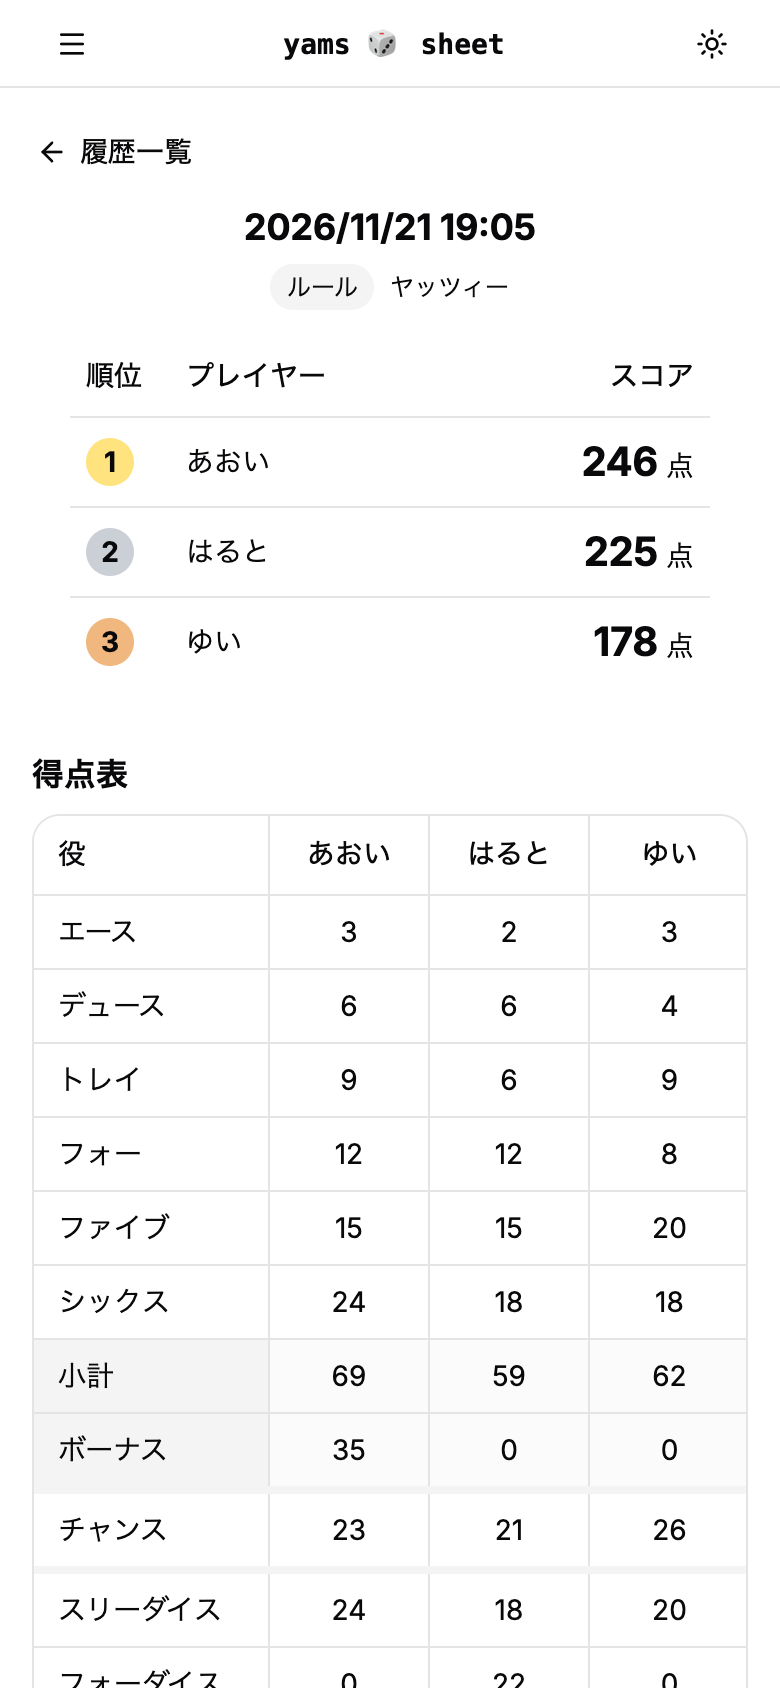
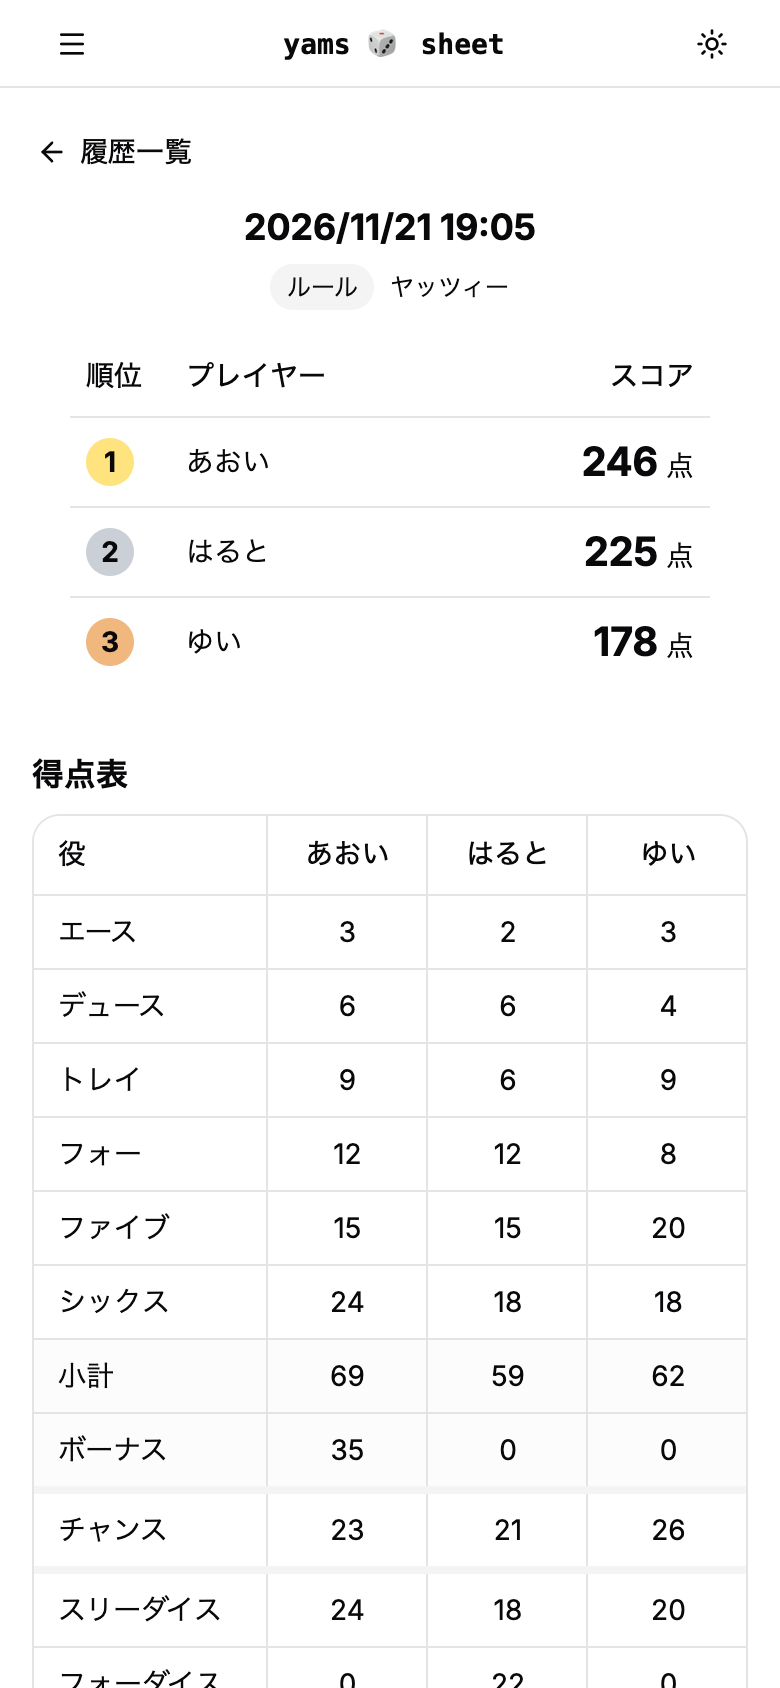
履歴・結果発表のレビュー指摘に対応する
削除機能を入れたことで、削除済みの履歴に戻るボタンやブックマークから
普通に到達するようになったが、root の英語のエラー画面になっていた。
一覧へ redirect して、利用者が迷わないようにする。

ほかに、使っていて引っかかる点を直す。
- 履歴一覧から他の画面へ戻る手段がブラウザバックしかなかった
- 空状態の「ゲームをはじめる」が設定画面に固定で、プレー中だと進行中のゲームと食い違う
- 得点表の自動計算行が、ダークモードやホバー時に固定列だけ色がずれていた
- 横スクロールで固定列の区切り線が消え、長い名前で列が際限なく広がっていた
- 同点1位のとき一覧カードで1人しか1位として表示されなかった
- 新しい画面にページタイトルがなく、役名が行見出しとして読み上げられなかった

README は、ゲーム中の左上のボタンとメニューを取り違えやすい記述と、
入力中は保存しているのに「保存しません」と読める記述を直した。

diff --git a/app/features/results/components/score-table.tsx b/app/features/results/components/score-table.tsx
@@ -126,6 +126,20 @@ function buildYamsGroups(columns: Column<ScoresYams>[]): Group[] {
 
 type Props = Pick<PreviousSheet, "players" | "rule" | "scores">;
 
+// 固定列の右の区切り線を border-l（隣のセル側）で引くと、横スクロールで固定列の下に隠れて消えるため、固定列自身に影で描く
+const stickyCell =
+  "sticky left-0 z-10 shadow-[inset_-1px_0_0_var(--color-border)]";
+
+// bg-muted/30 は半透明で、固定列に使うと横スクロール時に下のセルが透ける。固定列だけ bg-muted にすると行の他のセルと色がずれるため、背景色と混ぜた不透明色を行と固定列の両方に使う
+const autoRowBg =
+  "bg-[color-mix(in_oklab,var(--color-muted)_30%,var(--color-background))]";
+
+// TableRow 既定の hover 色に任せると、行だけ色が変わって固定列と食い違うため、hover でも同じ色に固定する
+const rowBgClass = {
+  default: "bg-background hover:bg-background",
+  auto: `${autoRowBg} hover:bg-[color-mix(in_oklab,var(--color-muted)_30%,var(--color-background))]`,
+} as const;
+
 export function ScoreTable({ players, rule, scores }: Props) {
   // 役ごとに枠を分けると横スクロールが枠ごとにずれるため、1つの表にまとめてグループ境界を太線で表す
   const columns =
@@ -142,53 +156,65 @@ export function ScoreTable({ players, rule, scores }: Props) {
       <Table>
         <TableHeader>
           <TableRow className="hover:bg-transparent">
-            <TableHead className="sticky left-0 z-10 bg-background min-w-28 px-3">
+            <TableHead
+              scope="col"
+              className={cn(stickyCell, "bg-background min-w-28 px-3")}
+            >
               役
             </TableHead>
-            {columns.map(({ player }) => (
+            {columns.map(({ player }, i) => (
               <TableHead
                 key={player.id}
-                className="border-l text-center min-w-20"
+                scope="col"
+                title={player.name}
+                className={cn("text-center min-w-20", i > 0 && "border-l")}
               >
-                {player.name}
+                <span className="block max-w-24 mx-auto truncate">
+                  {player.name}
+                </span>
               </TableHead>
             ))}
           </TableRow>
         </TableHeader>
         <TableBody>
           {groups.flatMap((group, groupIdx) =>
-            group.map((row, rowIdx) => (
-              <TableRow
-                key={row.label}
-                className={cn(
-                  "h-9 hover:bg-transparent",
-                  groupIdx > 0 && rowIdx === 0 && "border-t-4 border-t-muted",
-                  row.variant !== "default" && "bg-muted/30",
-                )}
-              >
-                <TableCell
+            group.map((row, rowIdx) => {
+              const isAuto = row.variant !== "default";
+              return (
+                <TableRow
+                  key={row.label}
                   className={cn(
-                    "sticky left-0 z-10 px-3",
-                    // 半透明の bg-muted/30 だと横スクロール時に下のセルが透けるため、固定列は不透明色にする
-                    row.variant === "default" ? "bg-background" : "bg-muted",
-                    row.variant === "total" && "font-bold",
+                    "h-9",
+                    groupIdx > 0 && rowIdx === 0 && "border-t-4 border-t-muted",
+                    isAuto ? rowBgClass.auto : rowBgClass.default,
                   )}
                 >
-                  {row.label}
-                </TableCell>
-                {row.values.map((value, i) => (
-                  <TableCell
-                    key={columns[i].player.id}
+                  <TableHead
+                    scope="row"
                     className={cn(
-                      "border-l text-center",
-                      row.variant === "total" && "font-bold text-base",
+                      stickyCell,
+                      isAuto ? autoRowBg : "bg-background",
+                      "h-auto px-3",
+                      row.variant === "total" ? "font-bold" : "font-normal",
                     )}
                   >
-                    {value ?? "-"}
-                  </TableCell>
-                ))}
-              </TableRow>
-            )),
+                    {row.label}
+                  </TableHead>
+                  {row.values.map((value, i) => (
+                    <TableCell
+                      key={columns[i].player.id}
+                      className={cn(
+                        "text-center",
+                        i > 0 && "border-l",
+                        row.variant === "total" && "font-bold text-base",
+                      )}
+                    >
+                      {value ?? "-"}
+                    </TableCell>
+                  ))}
+                </TableRow>
+              );
+            }),
           )}
         </TableBody>
       </Table>

diff --git a/app/features/history/components/history-list-item.tsx b/app/features/history/components/history-list-item.tsx
@@ -13,12 +13,14 @@ type Props = {
 };
 
 export function HistoryListItem({ id, date, rule, ranking }: Props) {
-  const [winner, ...others] = ranking;
+  // 同点1位は全員を王冠の行に出す。先頭だけを1位扱いにすると、同点の人が「その他」に紛れる
+  const winners = ranking.filter((r) => r.rank === 1);
+  const others = ranking.filter((r) => r.rank !== 1);
 
   return (
     <Link
       to={`/histories/${id}`}
-      className="block border rounded-md py-3 px-3 transition-colors hover:bg-muted/50"
+      className="block border rounded-md p-3 transition-colors hover:bg-muted/50 active:bg-muted/50"
     >
       <div className="flex items-center justify-between">
         <span className="text-xs text-muted-foreground">
@@ -28,7 +30,7 @@ export function HistoryListItem({ id, date, rule, ranking }: Props) {
           {ruleLabels[rule.name]}
         </span>
       </div>
-      {winner && (
+      {winners.length > 0 && (
         <div className="flex items-center justify-between mt-2">
           <div className="flex items-center gap-2 min-w-0">
             <Crown
@@ -36,11 +38,11 @@ export function HistoryListItem({ id, date, rule, ranking }: Props) {
               className="size-5 shrink-0 text-yellow-500 fill-yellow-500"
             />
             <span className="text-sm font-bold truncate">
-              {winner.playerName}
+              {winners.map((r) => r.playerName).join("・")}
             </span>
           </div>
           <div className="flex items-center gap-1 shrink-0">
-            <span className="font-bold text-xl">{winner.score}</span>
+            <span className="font-bold text-xl">{winners[0].score}</span>
             <span className="text-sm">点</span>
             <ChevronRight className="size-4 text-muted-foreground ml-1" />
           </div>

diff --git a/app/routes/(idle)/histories/index.tsx b/app/routes/(idle)/histories/index.tsx
@@ -1,4 +1,4 @@
-import { ArrowRight } from "lucide-react";
+import { ArrowLeft, ArrowRight } from "lucide-react";
 import { Link } from "react-router";
 import img from "~/assets/empty.png";
 import { Button } from "~/components/ui/button";
@@ -15,6 +15,10 @@ export async function clientLoader() {
     rule: sheet.rule,
     ranking: rankPlayers(sheet),
   }));
+}
+
+export function meta() {
+  return [{ title: "プレー履歴 | yathzee-scoresheet" }];
 }
 
 export function HydrateFallback() {
@@ -39,12 +43,13 @@ export default function Histories({ loaderData }: Route.ComponentProps) {
         <p className="text-xs text-muted-foreground mt-1">
           ゲームを終了すると、ここに結果が保存されます
         </p>
+        {/* プレー中でも履歴が0件のことはあるため、設定画面に固定せず "/" の振り分けに任せる */}
         <Button
           variant="default"
           className="mt-16 w-full h-12 font-bold rounded-full"
           asChild
         >
-          <Link to="/settings/players">
+          <Link to="/">
             ゲームをはじめる
             <ArrowRight />
           </Link>
@@ -63,6 +68,19 @@ export default function Histories({ loaderData }: Route.ComponentProps) {
         {loaderData.map((history) => (
           <HistoryListItem key={history.id} {...history} />
         ))}
+      </div>
+      <div className="w-full mt-16">
+        {/* 戻り先はシート状態で変わるため、固定ルートではなく "/" の振り分けに任せる */}
+        <Button
+          variant="secondary"
+          className="w-full h-12 font-bold rounded-full"
+          asChild
+        >
+          <Link to="/">
+            <ArrowLeft />
+            ホームに戻る
+          </Link>
+        </Button>
       </div>
     </div>
   );

diff --git a/app/routes/(idle)/histories/detail.tsx b/app/routes/(idle)/histories/detail.tsx
@@ -1,6 +1,6 @@
 import { useMutation } from "@tanstack/react-query";
 import { ArrowLeft } from "lucide-react";
-import { Link, useNavigate } from "react-router";
+import { Link, redirect, useNavigate } from "react-router";
 import { Button } from "~/components/ui/button";
 import { DeleteHistoryDialog } from "~/features/history/components/delete-history-dialog";
 import { formatPlayedAt } from "~/features/history/utils/format-date";
@@ -13,7 +13,13 @@ import type { Route } from "./+types/detail";
 
 export async function clientLoader({ params }: Route.LoaderArgs) {
   const sheet = await getPreviousSheet(params.id);
+  // 削除後のブラウザバックやブックマークで普通に到達するため、エラー画面ではなく一覧へ戻す
+  if (!sheet) throw redirect("/histories");
   return { id: params.id, sheet, ranking: rankPlayers(sheet) };
+}
+
+export function meta() {
+  return [{ title: "プレー履歴 | yathzee-scoresheet" }];
 }
 
 export function HydrateFallback() {

diff --git a/app/routes/(idle)/results.tsx b/app/routes/(idle)/results.tsx
@@ -1,5 +1,5 @@
 import { ArrowLeft, ArrowRight } from "lucide-react";
-import { Link } from "react-router";
+import { Link, redirect } from "react-router";
 import img from "~/assets/goal.png";
 import { Button } from "~/components/ui/button";
 import { RankingTable } from "~/features/results/components/ranking-table";
@@ -11,7 +11,13 @@ import type { Route } from "./+types/results";
 
 export async function clientLoader({ params }: Route.LoaderArgs) {
   const sheet = await getPreviousSheet(params.id);
+  // 削除後のブラウザバックやブックマークで普通に到達するため、エラー画面ではなく一覧へ戻す
+  if (!sheet) throw redirect("/histories");
   return { sheet, ranking: rankPlayers(sheet) };
+}
+
+export function meta() {
+  return [{ title: "結果発表 | yathzee-scoresheet" }];
 }
 
 export function HydrateFallback() {

diff --git a/app/features/results/components/ranking-table.tsx b/app/features/results/components/ranking-table.tsx
@@ -41,7 +41,11 @@ export function RankingTable({ results }: { results: RankedResult[] }) {
             <TableCell>
               <Rank rank={result.rank} />
             </TableCell>
-            <TableCell>{result.playerName}</TableCell>
+            <TableCell title={result.playerName}>
+              <span className="block max-w-36 truncate">
+                {result.playerName}
+              </span>
+            </TableCell>
             <TableCell className="text-right">
               <span className="font-bold text-xl">{result.score}</span> 点
             </TableCell>

diff --git a/app/lib/db.client.ts b/app/lib/db.client.ts
@@ -51,9 +51,7 @@ export async function updateCurrentSheet(sheet: CurrentSheet) {
 }
 
 export async function getPreviousSheet(id: string) {
-  const sheet = await (await db).get("previousSheets", id);
-  if (!sheet) throw new Error("no previous sheet found");
-  return sheet;
+  return (await db).get("previousSheets", id);
 }
 export async function addPreviousSheet(sheet: Omit<PreviousSheet, "date">) {
   const id = nanoid();

diff --git a/README.md b/README.md
@@ -28,7 +28,7 @@ https://yahtzee-scoresheet-five.vercel.app
 2. ルールを選び、ゲームを始めます。
 3. 各プレイヤーの役ごとに得点を選びます。
 4. すべての欄が埋まると、左上のボタンが「ゲームを中断」から「ゲームを終了」に変わります。終了すると、順位と役ごとの得点表を載せた結果発表が表示されます。
-5. 終了したゲームは、左上のメニューの「プレー履歴」から見返せます。一覧から選んだゲームの詳細画面で、その履歴を削除できます。
+5. 終了したゲームは「プレー履歴」から見返せます。プレー履歴は、ゲーム中以外の画面で左上のメニュー（≡）を開くと選べます。履歴は詳細画面の「この履歴を削除」から 1 件ずつ削除できます。
 
 途中で「ゲームを中断」を選ぶと、入力中の得点を破棄してプレイヤー追加の画面に戻ります。
 
@@ -40,7 +40,7 @@ https://yahtzee-scoresheet-five.vercel.app
 また、ブラウザのサイトデータを削除すると記録も消えます。
 
 終了したゲームの結果も保存し、プレー履歴として表示します。
-「ゲームを中断」で抜けたゲームは保存しません。
+「ゲームを中断」で抜けたゲームは、入力中の得点が破棄され、プレー履歴にも残りません。
 
 ## 開発
 
